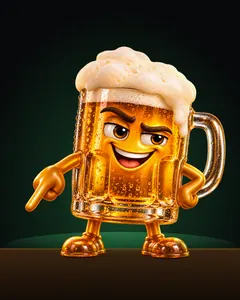
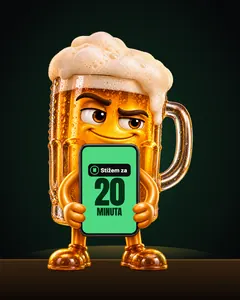
Koraci step 3 = Krigla holding a phone with 'Stizem za 20 minuta' (02-mobitel); Android list in two columns on desktop with an iPhone panel; privatnost as title + truth cards, wide on desktop

diff --git a/components/sections.jsx b/components/sections.jsx
@@ -11,7 +11,7 @@ import { MrezaIkona } from "./mreze";
 import { KriglaListe } from "./napunite-kriglu";
 import { AppStoreBadge } from "./app-store-badge";
 import { StoryButton } from "./story-button";
-import { PrivacyWords } from "./privacy-words";
+import { Istina, PrivacyWords } from "./privacy-words";
 import { PromoVideo } from "./promo-video";
 import { CatchPoint } from "./sticky-cta";
 import { Waitlist } from "./waitlist";
@@ -37,12 +37,12 @@ const KORACI = [
 ];
 
 // 1.1 (Petar 5. 11., kartica „koraci“): koraci 2 i 3 govore jezikom 1.1, uz Codexove Krigle iz ulaza.
-// Korak 3 ima drugu sliku nego u kartici (Petar: „ali druga slika za 3“): Krigla koja pokazuje i smije se
-// (lakat-hero/out/05-pokazuje) na tamnoj sceni, jer „Ili te barem zeza da si doma“.
+// Korak 3 ima drugu sliku nego u kartici (Petar: „ali druga slika za 3“, pa 5. 11. navečer „ne sviđa mi se treća
+// slika“): Krigla drži mobitel, a na ekranu je poruka pajdaša „Stižem za 20 minuta“ (lakat-hero/out/02-mobitel).
 const KORACI_11 = [
   ["Dodaš ekipu.", "Samo ljude koje prihvatiš.", "1-ekipa", "Krigla s mobitelom zove ekipu"],
   ["Vani si? Upališ „Vani sam“.", "Kava se isto računa.", "2-vani", "Krigla raširenih ruku pod reflektorom"],
-  ["Ekipa javi „Stižem za 20“.", "Ili te barem zeza da si doma.", "3-stizem", "Krigla pokazuje prstom i smije se"],
+  ["Ekipa javi „Stižem za 20“.", "Ili te barem zeza da si doma.", "3-stizem", "Krigla drži mobitel s porukom pajdaša: Stižem za 20 minuta"],
 ];
 
 function Koraci11() {
@@ -75,7 +75,7 @@ function Koraci11() {
 export function TriKoraka({ live = false }) {
   const preorder = !live && isPreorder();
   return (
-    <section aria-labelledby="koraci-naslov" className="relative mx-auto grid max-w-6xl gap-10 px-5 pt-16 pb-20 md:pt-24">
+    <section id="kako-radi" aria-labelledby="koraci-naslov" className="relative scroll-mt-4 mx-auto grid max-w-6xl gap-10 px-5 pt-16 pb-20 md:pt-24">
       <HuntKrigla id="tajna" size={20} className="top-4 right-3" />
       {/* Tri Krigle za šankom (Petar 20. 10., runda 2 „sank“: Codexova slika, svaka drži nešto drugo, kava se isto računa).
           Rubovi slike već blijede u #09090b, pa nema okvira. Stupnjevi pokrivaju širinu × 2x (zamka srcset). */}
@@ -132,11 +132,11 @@ export function TriKoraka({ live = false }) {
 // (tekst iz appa: Core/Vani.swift, KorisnikSheet.swift), s Kriglom kao duhom.
 function Privatnost11() {
   return (
-    <div className="grid max-w-[42ch] gap-4">
-      <p data-reveal className="text-[16px] text-soft text-pretty md:text-[19px]">
+    <>
+      <Istina oznaka="Vani sam" d={180}>
         Lokacija ide uživo samo dok je upaljen „Vani sam“. Kažeš „Doma sam“, ili dođe 4 ujutro, i gasi se.
-      </p>
-      <div data-reveal style={{ "--rv-d": "120ms" }} className="grid grid-cols-[48px_1fr] items-center gap-3 rounded-2xl border border-line bg-surface p-3.5">
+      </Istina>
+      <li data-reveal style={{ "--rv-d": "270ms" }} className="grid grid-cols-[48px_1fr] items-center gap-3 rounded-2xl border border-line bg-surface/80 p-4 md:p-5">
         <img
           src="/img/krigla/duh-96.webp"
           srcSet="/img/krigla/duh-96.webp 96w, /img/krigla/duh-192.webp 192w"
@@ -154,8 +154,8 @@ function Privatnost11() {
           </span>
           <span className="text-[13px] leading-snug text-muted text-pretty">Taj pajdaš ne vidi tvoj „Vani sam“, pozive ni današnje runde.</span>
         </div>
-      </div>
-    </div>
+      </li>
+    </>
   );
 }
 
@@ -196,16 +196,34 @@ export function WaitlistSection({ live = false }) {
   );
   return (
     <section id="lista" className="mx-auto max-w-6xl scroll-mt-6 px-5 py-20 md:py-28">
-      <div className="mx-auto max-w-md md:max-w-none">
+      {/* Prednarudžba na desktopu (Petar 5. 11.): dva stupca, Android obrazac lijevo, iPhone i App Store desno.
+          Mobitel ostaje jedan stupac: obrazac, pa ispod crte iPhone. */}
+      <div className={`mx-auto max-w-md md:max-w-none ${preorder ? "grid gap-8 md:grid-cols-[minmax(0,1.1fr)_minmax(0,0.9fr)] md:items-center md:gap-16" : ""}`}>
         <Waitlist android={android} velik naslov={naslov} />
         {preorder && (
-          <div data-reveal className="mt-8 grid gap-4 border-t border-line pt-6 md:max-w-md">
-            <p className="grid gap-1">
-              <b className="text-[17px] font-semibold text-fg">Na iPhoneu si?</b>
-              <span className="text-[15px] text-soft">Prednaruči, 1. 12. se sam skine.</span>
+          <aside
+            data-reveal
+            aria-label="Prednarudžba za iPhone"
+            className="relative grid gap-4 border-t border-line pt-6 md:isolate md:gap-5 md:overflow-hidden md:rounded-[28px] md:border md:bg-[radial-gradient(120%_90%_at_100%_0%,#123222_0%,#131316_55%)] md:p-10"
+          >
+            <img
+              src="/img/press/krigla-ulaznica-320.webp"
+              alt=""
+              width={320}
+              height={320}
+              loading="lazy"
+              decoding="async"
+              className="hidden md:block md:size-[180px] md:justify-self-end md:object-contain lg:size-[220px]"
+            />
+            <span className="hidden font-mono text-[12px] tracking-[0.16em] text-accent uppercase md:block">iPhone · prednarudžba</span>
+            <p className="grid gap-1 md:gap-3">
+              <b className="text-[17px] font-semibold text-fg md:font-display md:text-[clamp(40px,4.4vw,60px)] md:leading-[0.95] md:font-normal md:uppercase">
+                Na iPhoneu si<span className="md:text-accent">?</span>
+              </b>
+              <span className="text-[15px] text-soft md:text-[19px]">Prednaruči, 1. 12. se sam skine.</span>
             </p>
             <AppStoreBadge ct="web-lista" height={48} className="justify-self-start" />
-          </div>
+          </aside>
         )}
       </div>
     </section>
@@ -259,7 +277,7 @@ export function PlayGame({ challenge = null, live = false }) {
 // 8. FAQ (B): chat, odgovori su u HTML-u (faq-u-html).
 export function Faq({ live }) {
   return (
-    <section data-krigla="Pitaj što god hoćeš." aria-labelledby="faq-naslov" className="relative mx-auto grid max-w-2xl gap-6 px-5 py-20 md:py-24">
+    <section id="faq" data-krigla="Pitaj što god hoćeš." aria-labelledby="faq-naslov" className="relative scroll-mt-4 mx-auto grid max-w-2xl gap-6 px-5 py-20 md:py-24">
       <HuntKrigla id="faq" size={22} className="right-1 bottom-6" />
       <H2 id="faq-naslov">Pitaš se?</H2>
       <FaqChat items={faqZa(live)} />

diff --git a/components/privacy-words.jsx b/components/privacy-words.jsx
@@ -14,6 +14,16 @@ const FRIENDS = [
   ["57%", 26],
 ];
 
+// Jedna istina kao kartica: oznaka gore, rečenica ispod. `d` = kašnjenje ulaza u ms.
+export function Istina({ oznaka, d = 0, children }) {
+  return (
+    <li data-reveal style={{ "--rv-d": `${d}ms` }} className="grid gap-1.5 rounded-2xl border border-line bg-surface/80 p-4 md:p-5">
+      <span className="font-mono text-[11px] tracking-[0.16em] text-accent uppercase">{oznaka}</span>
+      <span className="text-[16px] leading-snug text-soft text-pretty md:text-[17px]">{children}</span>
+    </li>
+  );
+}
+
 // `children` = Krigla koja se puni s listom (KriglaListe, server). Vizual sekcije, ne druga tema (Petar 16. 10.).
 // `dodatak` = istine iz 1.1 ispod odlomka (sections.jsx, Privatnost11), samo kad je 1.1 upaljen.
 export function PrivacyWords({ children = null, dodatak = null }) {
@@ -46,7 +56,7 @@ export function PrivacyWords({ children = null, dodatak = null }) {
   const done = lit >= WORDS.length;
 
   return (
-    <section ref={ref} className="relative isolate overflow-hidden" data-krigla="Ja ništa ne vidim. Stvarno.">
+    <section ref={ref} id="privatnost" className="relative isolate scroll-mt-4 overflow-hidden" data-krigla="Ja ništa ne vidim. Stvarno.">
       <div
         className={`dots-lg pointer-events-none absolute inset-0 -z-10 transition-opacity duration-700 ${done ? "opacity-[0.07]" : "opacity-25"}`}
         aria-hidden="true"
@@ -61,8 +71,10 @@ export function PrivacyWords({ children = null, dodatak = null }) {
           style={{ left: x, bottom: y, transitionDelay: `${i * 120}ms` }}
         />
       ))}
-      <div className="mx-auto grid max-w-6xl gap-6 px-5 py-28">
-        <h2 className="font-display text-[clamp(52px,15vw,64px)] leading-[0.92] uppercase text-balance md:text-[clamp(72px,8vw,128px)]">
+      {/* Raspored (Petar 5. 11., „bolji raspored, posebno na desktopu“): na mobitelu naslov, pa istine kao kartice,
+          pa link na pravila. Na desktopu naslov i link lijevo, kartice desno, cijela širina iskorištena. */}
+      <div className="mx-auto grid max-w-6xl gap-10 px-5 py-24 md:grid-cols-[minmax(0,1fr)_minmax(0,0.95fr)] md:gap-x-16 md:gap-y-10 md:py-32">
+        <h2 className="font-display text-[clamp(52px,15vw,64px)] leading-[0.92] uppercase text-balance md:col-start-1 md:row-start-1 md:self-end md:text-[clamp(64px,7.4vw,120px)]">
           {WORDS.map((w, i) => (
             <span key={w} className={`transition-colors duration-300 ${i < lit ? (i === WORDS.length - 1 ? "text-accent" : "text-fg") : "text-[#2e2e34]"}`}>
               {w}
@@ -70,13 +82,21 @@ export function PrivacyWords({ children = null, dodatak = null }) {
             </span>
           ))}
         </h2>
-        <div className={`grid gap-8 transition-opacity duration-500 md:grid-cols-[minmax(0,42ch)_auto] md:items-center md:justify-between md:gap-12 ${done ? "opacity-100" : "opacity-40"}`}>
-          <div className="grid gap-6">
-            <p className="max-w-[42ch] text-[16px] text-soft text-pretty md:text-[19px]">
-              Runde, fotke i gdje si vide samo pajdaši koje prihvatiš. Iznimka je javna runda, i to samo kad je sam upališ: 24 sata je vide ljudi u krugu od 1 km.
-            </p>
-            {dodatak}
-          </div>
+        <ul className={`grid content-start gap-3 transition-opacity duration-500 md:col-start-2 md:row-span-2 md:row-start-1 md:self-center ${done ? "opacity-100" : "opacity-40"}`}>
+          <Istina oznaka="Pajdaši">Runde, fotke i gdje si vide samo pajdaši koje prihvatiš. To provodi baza, ne samo app.</Istina>
+          <Istina oznaka="Javna runda" d={90}>
+            Iznimka je javna runda, i to samo kad je sam upališ: 24 sata je vide ljudi u krugu od 1 km.
+          </Istina>
+          {dodatak}
+        </ul>
+        <div className="grid content-start justify-items-start gap-8 md:col-start-1 md:row-start-2">
+          <a
+            href="/privatnost"
+            className="inline-flex min-h-[44px] items-center gap-2 text-[15px] font-semibold text-soft underline decoration-line underline-offset-4 hover:text-fg"
+          >
+            Sva pravila privatnosti
+            <span aria-hidden="true" className="text-accent">→</span>
+          </a>
           {children}
         </div>
       </div>
